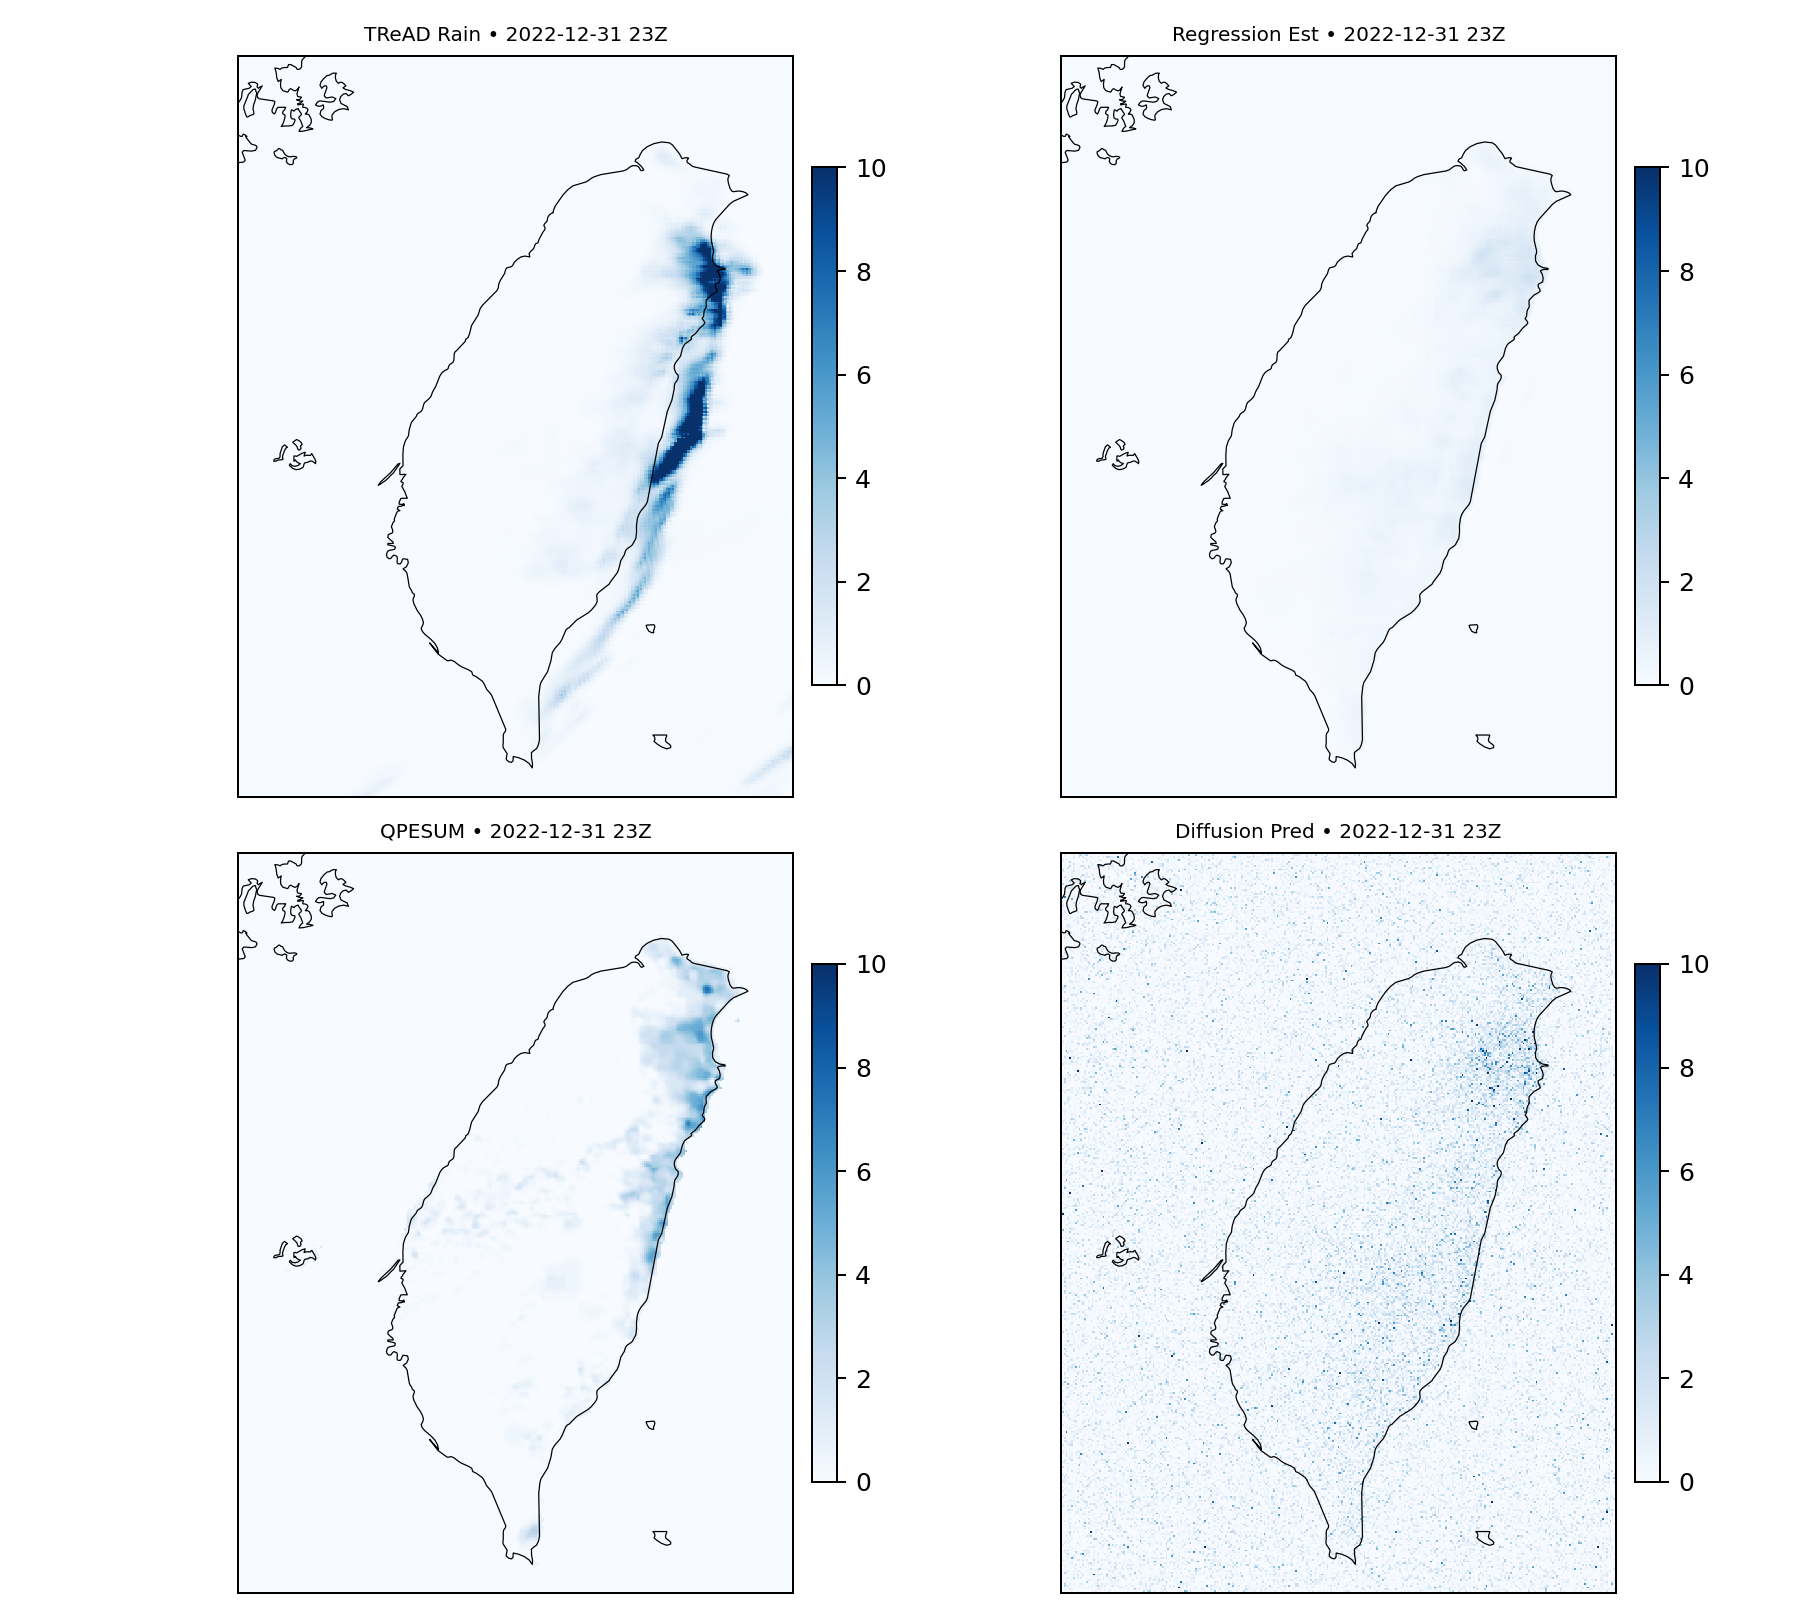
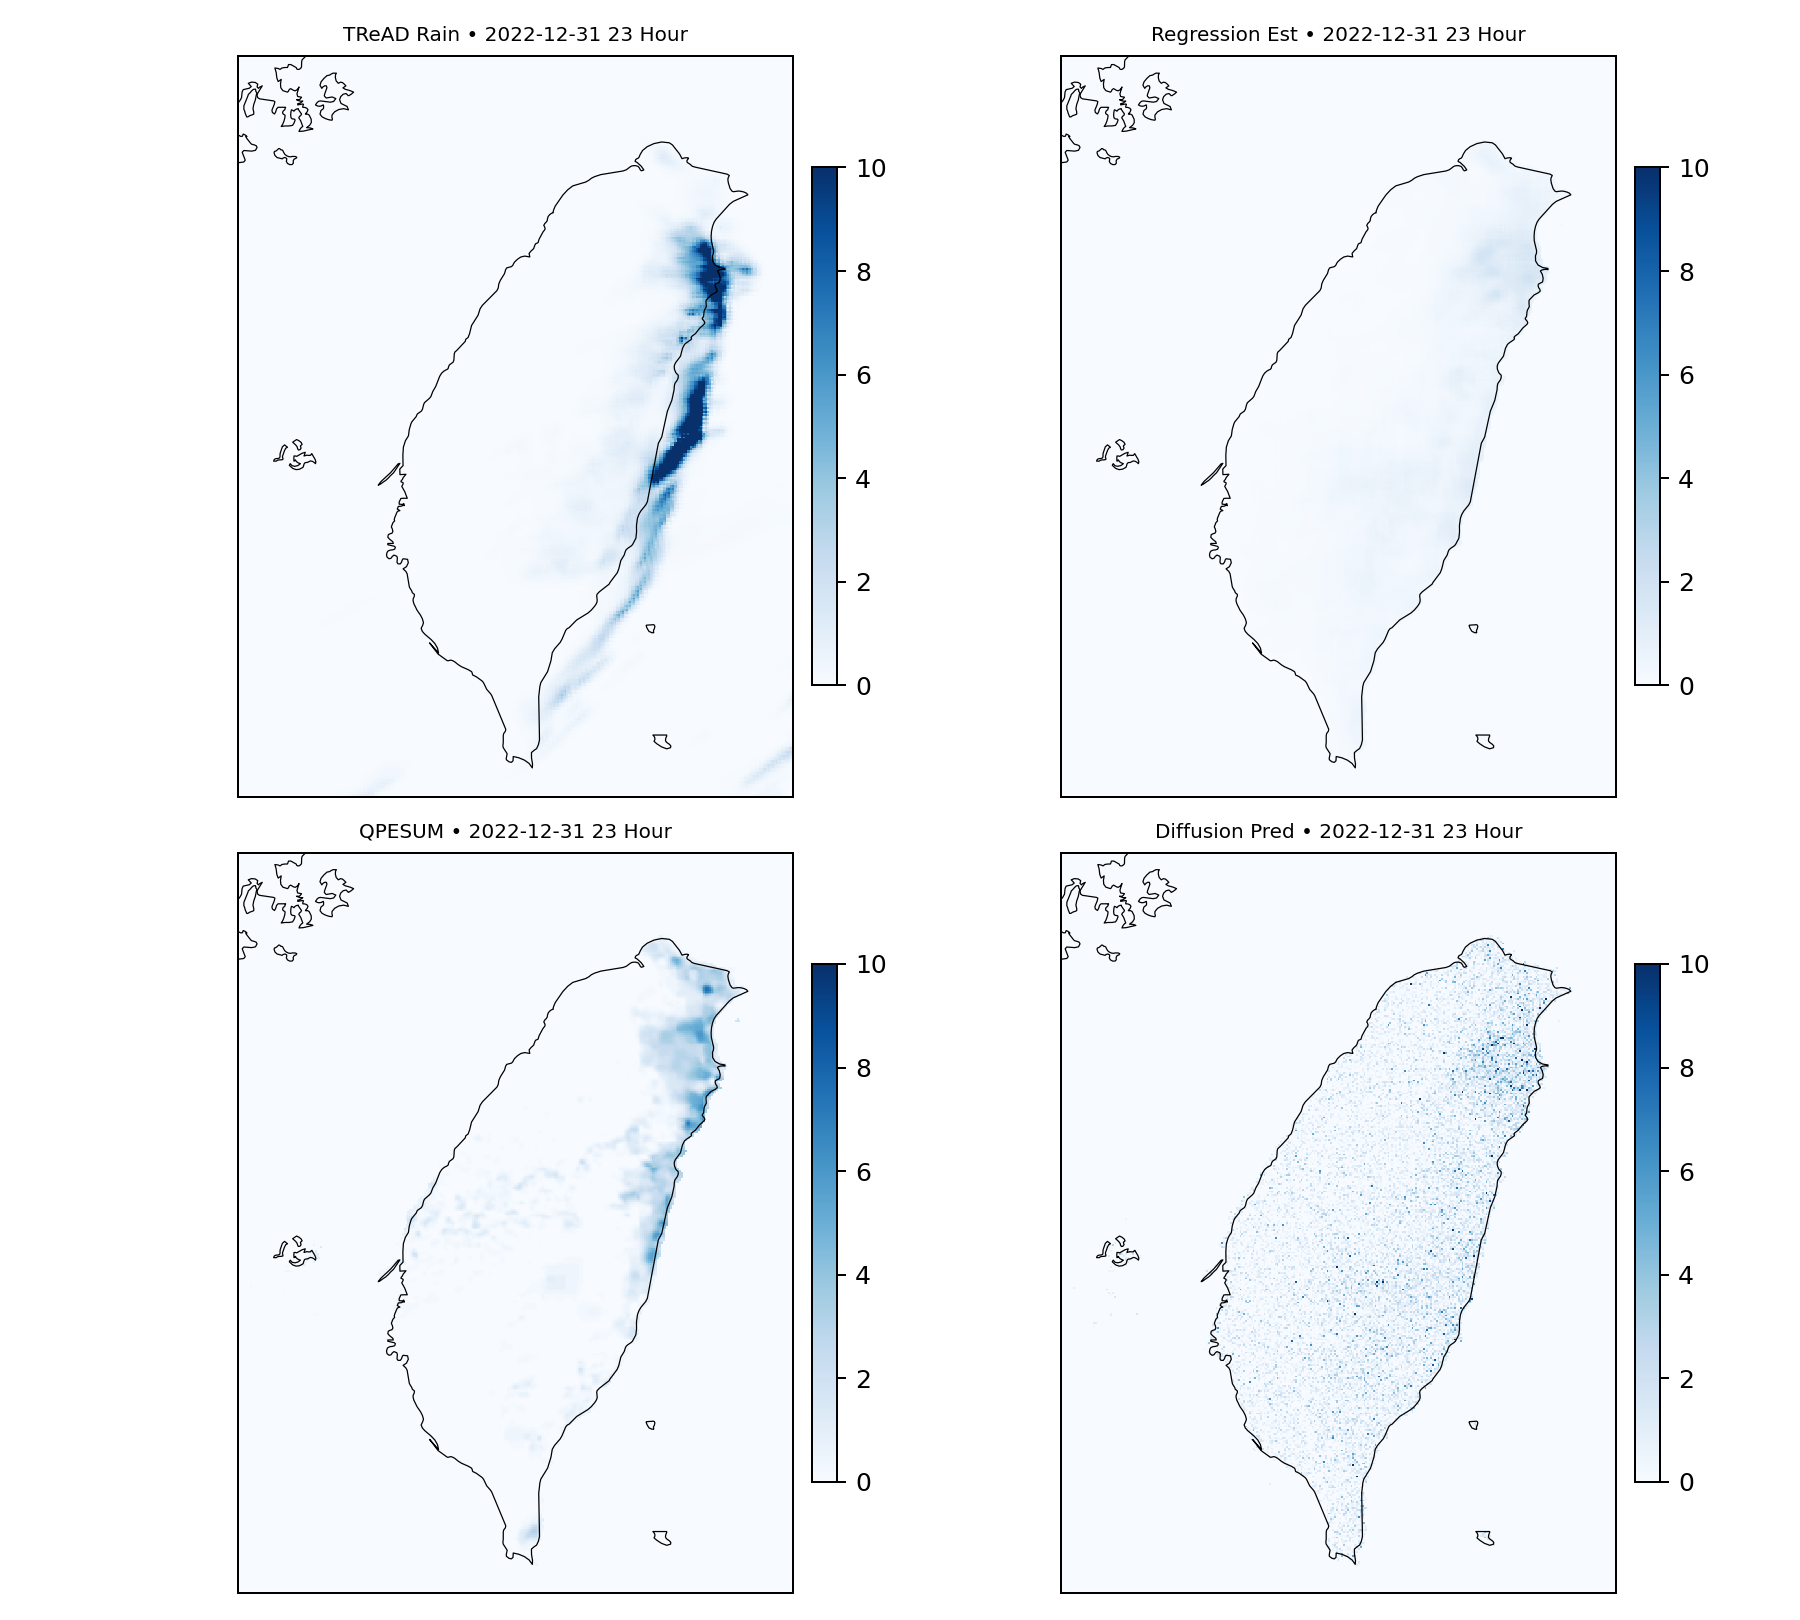
new results

diff --git a/diffusion_phase2_ddpm.py b/diffusion_phase2_ddpm.py
@@ -31,8 +31,10 @@ class ResidualDiffusionDataset(torch.utils.data.Dataset):
         x, y = self.base[idx]
         with torch.no_grad():
             reg = self.reg(x.unsqueeze(0).to(self.dev))[0].cpu()
-        return torch.cat([x, reg], 0), y - reg          # (cond , residual)
-
+#        return torch.cat([x, reg], 0), y - reg          # (cond , residual)
+        mask = x[-1:]
+        res  = (y - reg) * mask
+        return torch.cat([x, reg], 0), res          # (cond , residual)
 # ---------------- UNet ε-predictor --------------------------------------------------------
 class DoubleConv(nn.Module):
     def __init__(self, ic, oc):
@@ -96,11 +98,13 @@ def main():
         net.train(); t_loss=0
         for cond,res in tr_dl:
             cond,res = cond.to(dev), res.to(dev)
+            mask = cond[:, -2:-1]
             t = torch.randint(0,args.timesteps,(cond.size(0),),device=dev)
             eps = torch.randn_like(res)
             x_t = q_sample(res,t,eps,a_bar)
             pred = net(torch.cat([cond,x_t],1))
-            loss = nn.functional.mse_loss(pred,eps)
+#           loss = nn.functional.mse_loss(pred,eps)
+            loss = ((pred - eps).pow(2) * mask).mean()
             opt.zero_grad(); loss.backward(); opt.step()
             t_loss += loss.item(); gstep+=1
             if gstep%50==0: writer.add_scalar('loss/train_step',loss.item(),gstep)
@@ -110,11 +114,13 @@ def main():
         with torch.no_grad():
             for cond,res in va_dl:
                 cond,res = cond.to(dev), res.to(dev)
+                mask = cond[:, -2:-1]
                 t = torch.randint(0,args.timesteps,(cond.size(0),),device=dev)
                 eps = torch.randn_like(res)
                 x_t = q_sample(res,t,eps,a_bar)
                 pred = net(torch.cat([cond,x_t],1))
-                v_loss += nn.functional.mse_loss(pred,eps).item()
+#                v_loss += nn.functional.mse_loss(pred,eps).item()
+                v_loss += ((pred - eps).pow(2) * mask).mean().item()
         writer.add_scalars('loss/epoch',{'train':t_loss/len(tr_dl),'val':v_loss/len(va_dl)},ep)
         print(f'[DDPM] ep{ep}/{args.epochs} train={t_loss/len(tr_dl):.4f} val={v_loss/len(va_dl):.4f}')
         if ep%10==0:

diff --git a/inference_diffusion_single_day_v4.py b/inference_diffusion_single_day_v4.py
@@ -70,15 +70,16 @@ def main():
         x,y=ds[base+hr]
         x_pad,ph,pw=pad4(x.unsqueeze(0).to(dev)); reg_pad=reg(x_pad)[0].cpu()
         reg_est=reg_pad[..., :-ph or None, :-pw or None]
-
+        mask = x[-1:]
+        reg_est = reg_est * mask
         cond=torch.cat([x,reg_est],0).unsqueeze(0).to(dev)
         cond_pad,ph2,pw2=pad4(cond); res_pad=ddpm_sample(cond_pad,diff,T=1000,steps=args.steps,device=dev)[0].cpu()
-        res_hat=res_pad[..., :-ph2 or None, :-pw2 or None]
-
+#        res_hat=res_pad[..., :-ph2 or None, :-pw2 or None]
+        res_hat=res_pad[..., :-ph2 or None, :-pw2 or None] * mask
         reg_hr,true_hr,pred_hr=map(den,[reg_est,y,reg_est+res_hat])
 
         fig,axs=plt.subplots(2,2,figsize=(10,9),subplot_kw={'projection':ccrs.PlateCarree()})
-        ts=f"{args.date[:4]}-{args.date[4:6]}-{args.date[6:]} {hr:02d}Z"
+        ts=f"{args.date[:4]}-{args.date[4:6]}-{args.date[6:]} {hr:02d} Hour"
         plot_panel(axs[0,0],lon,lat,coarse.isel(time=hr),f"TReAD Rain • {ts}")
         plot_panel(axs[0,1],lon,lat,reg_hr,f"Regression Est • {ts}")
         plot_panel(axs[1,0],lon,lat,true_hr,f"QPESUM • {ts}")
